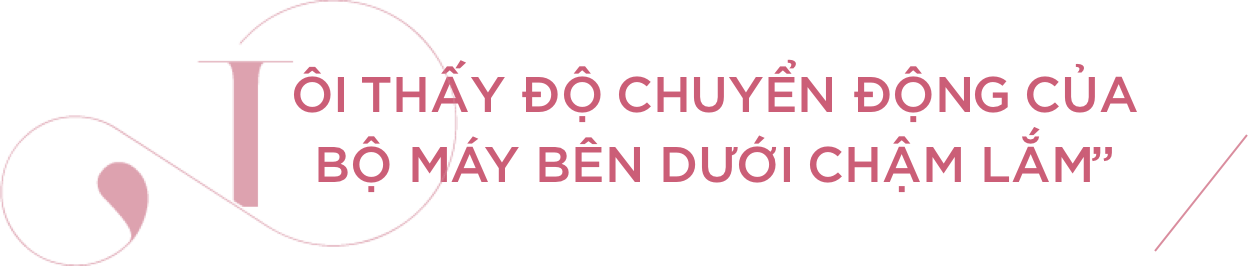
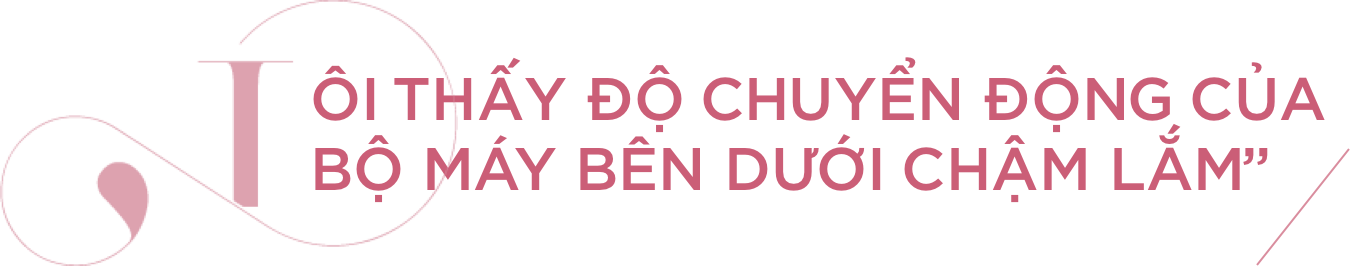
new 04

diff --git a/index.html b/index.html
@@ -48,10 +48,6 @@
 
         <div class="container content">
 
-            <div class="ecomic_user desktop_image">
-                <p>CHUYÊN GIA KINH TẾ</p>
-            </div>
-
             <div class="image_tilte_content desktop_image">
                 <img src="assets/images/title-1.png" srcset="assets/images/title-1@2x.png 2x,assets/images/title-1@3x.png 3x"
                     class="Title_1 align-middle">
